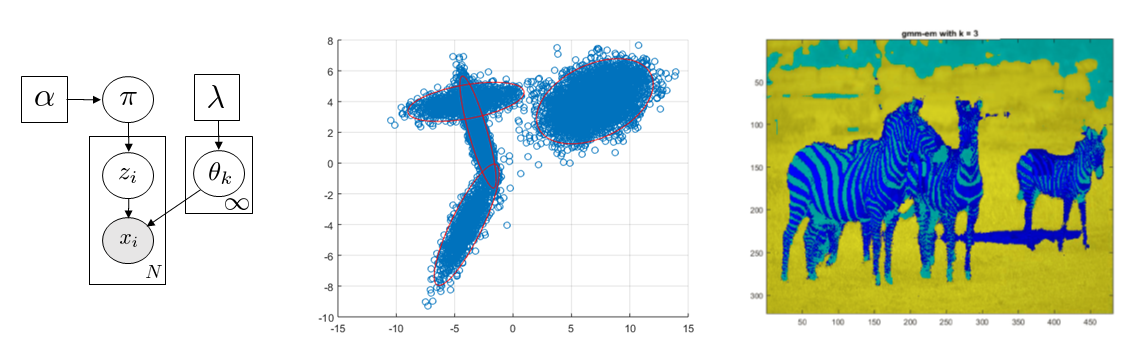
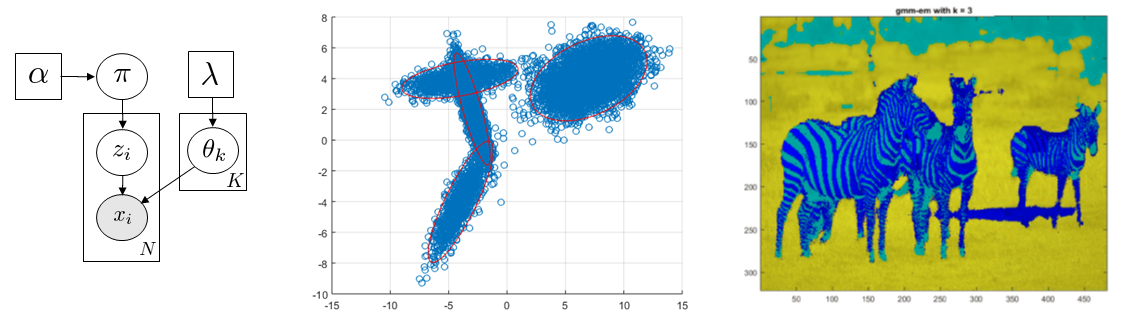
updated figures
updated figures

diff --git a/README.md b/README.md
@@ -13,8 +13,8 @@ MCMC methods are useful in sampling from high dimensional distributions by accep
 
 We can see the histogram of accepted samples in the top right plot for the proposal shown in the left. Notice, that in order to maintain high acceptance ration, we would like the proposal distribution to closely match the target distribution. Furthermore, we need to ensure that our samples are drawn from an ergodic markov chain in order to guarantee convergence to the target distribution. While a random walk proposal is used here, to speed up the exploration of the target distribution, we can use other techniques, for example gradient information as used in the Hamiltonian Monte Carlo.
 
-References: 
-*C. Andrieu et al, "An Introduction to MCMC for Machine Learning", 2003*
+References:  
+*C. Andrieu et al, "An Introduction to MCMC for Machine Learning", 2003*  
 *R. Neal, "MCMC Using Hamiltonian Dynamics", 2012*
 
 **Gibbs Sampling**
@@ -25,16 +25,16 @@ In Gibbs sampling, the samples are drawn from fully conditional distributions. T
 <img src="https://github.com/vsmolyakov/ml/blob/master/gibbs/figures/gibbs_merged.png" width = "600"/>
 </p>
 
-The figure on the left shows samples drawn from a 2D Gaussian by alternating x1 ~ p(x1|x2) and x2 ~ p(x2|x1). The more correlated x1 and x2 are the longer it takes to generate samples from the target distribution. The figure on the right shows the Gibbs sampler applied to a noisy binary image modeled as a grid graph, where each pixel is a node and the nodes are connected by weighted edges, where the weight is defined by edge potential psi(xs,xt) = exp(J xs xt), with xs and xt in {-1,+1}. By setting the coupling strength J, we can control the preference for neighboring pixels to have the same state. This can be applied to image denoising.
+The figure on the left shows samples drawn from a 2D Gaussian by alternating x1 ~ p(x1|x2) and x2 ~ p(x2|x1). The more correlated x1 and x2 are the longer it takes to generate samples from the target distribution. The figure on the right shows the Gibbs sampler applied to a noisy binary image modeled as a grid graph, where each pixel is a node and the nodes are connected by weighted edges, where the weight is defined by edge potential psi(xs,xt) = exp(J xs xt), with xs and xt in {-1,+1}. By setting the coupling strength J, we can control the preference for neighboring pixels to have the same state. This is used in image denoising.
 
 A gibbs sampler does not require the design of proposal distribution and the samples are always accepted. However, it can take a long time to converge and alternative methods such as parallel split-merge sampler or variational bayes methods are used to achieve faster approximate results.
 
-Reference:
+References:  
 *D. MacKay, "Information Theory, Inference and Learning Algorithms", 2003*
 
 **Gaussian Mixture Models**
 
-Gaussian Mixture Models (GMM) are very popular in approximating many real-world distributions. The figure below shows posterior clustering result on synthetic dataset using the Expectation-Maximization (EM) algorithm.
+Gaussian Mixture Models (GMM) are very popular in approximating many real-world distributions. The figure below shows a graphical model for a GMM and posterior clustering results on synthetic dataset and an image using the Expectation-Maximization (EM) algorithm.
 
 <p align="center">
 <img src="https://github.com/vsmolyakov/ml/blob/master/gmm/figures/gmm_merged.png"/>
@@ -45,17 +45,26 @@ EM algorithm is one of many ways of fitting a GMM. In the E-step, the cluster la
 A common modeling question with GMM is how to choose the number of clusters K? Bayesian non-parametric methods extend the GMM to infinite number of clusters using the Dirichlet Process.
 Small Variance Asymptotics (SVA) approximations can be used to derive fast algorithms for fitting Dirichlet Process Mixture Models and other bayesian non-parametric extensions.
 
-Reference:
+References:  
 *K. Murphy, "Machine Learning: A Probabilistic Perspective", 2012*
 
 **Latent Dirichlet Allocation**
 
+Latent Dirichlet Allocation (LDA) is a topic model that represents a collection of documents as a mixture of multinomials (topics). The inference task is to learn the topics and the mixing proportions. The figure below shows the LDA graphical model and the log-likelihood plot comparing EM algorithm with variational bayes. 
+
 <p align="center">
-<img src="https://github.com/vsmolyakov/ml/blob/master/lda/figures/lda.png"/>
+<img src="https://github.com/vsmolyakov/ml/blob/master/lda/figures/lda_merged.png"/>
 </p>
 
-Reference:
-*D. Blei, A. Ng, M. Jordan, "Latent Dirichlet Allocation", 2003*
+Although both methods are susceptible to local optima, we can see that the EM algorithm achieves higher log-likelihood on synthetically generated data. LDA topic model associates each word xid with a topic represented by a label zid in {1,...,K}. A document is represented as a bag of words (sentence structure is not preserved) and only the word counts matter. Each document is associated with topic proportions theta_d that could be used to measure document similarity. The global topics represented as a multinomials are learned and shared across all documents. The hyper-parameters alpha and eta set our prior knowledge of topic mixtures and multinomials, e.g. from previous on-line training of the model.
+
+Topic models have been applied to massive datasets thanks to scalable inference algorithms. In particular, on-line variational methods that sub-sample the data into mini-batches such as Stochastic Variational Inference (SVI).
+
+In addition, there are a number of extensions to the basic LDA model such as the correlated topic model, dynamic topic model, supervised LDA and many others.
+
+References:  
+*D. Blei, A. Ng, M. Jordan, "Latent Dirichlet Allocation", JMLR 2003*
+*M. Hoffman, D. Blei, C. Wang, J. Paisley, "Stochastic Variational Inference", JMLR 2013*
 
 **Stochastic Gradient Descent**
 
@@ -63,17 +72,28 @@ Reference:
 <img src="https://github.com/vsmolyakov/ml/blob/master/sgd/figures/sgd_cost.png"/>
 </p>
 
+References:  
+
+
+
 **Hidden Markov Models**
 
 <p align="center">
 <img src="https://github.com/vsmolyakov/ml/blob/master/hmm/figures/sp500.png"/>
 </p>
 
+References:  
+
+
+
 **Misc**
 
 <p align="center">
 <img src="https://github.com/vsmolyakov/ml/blob/master/misc/figures/density_est.png"/>
 </p>
+
+References:  
+
 
 
 ### References
